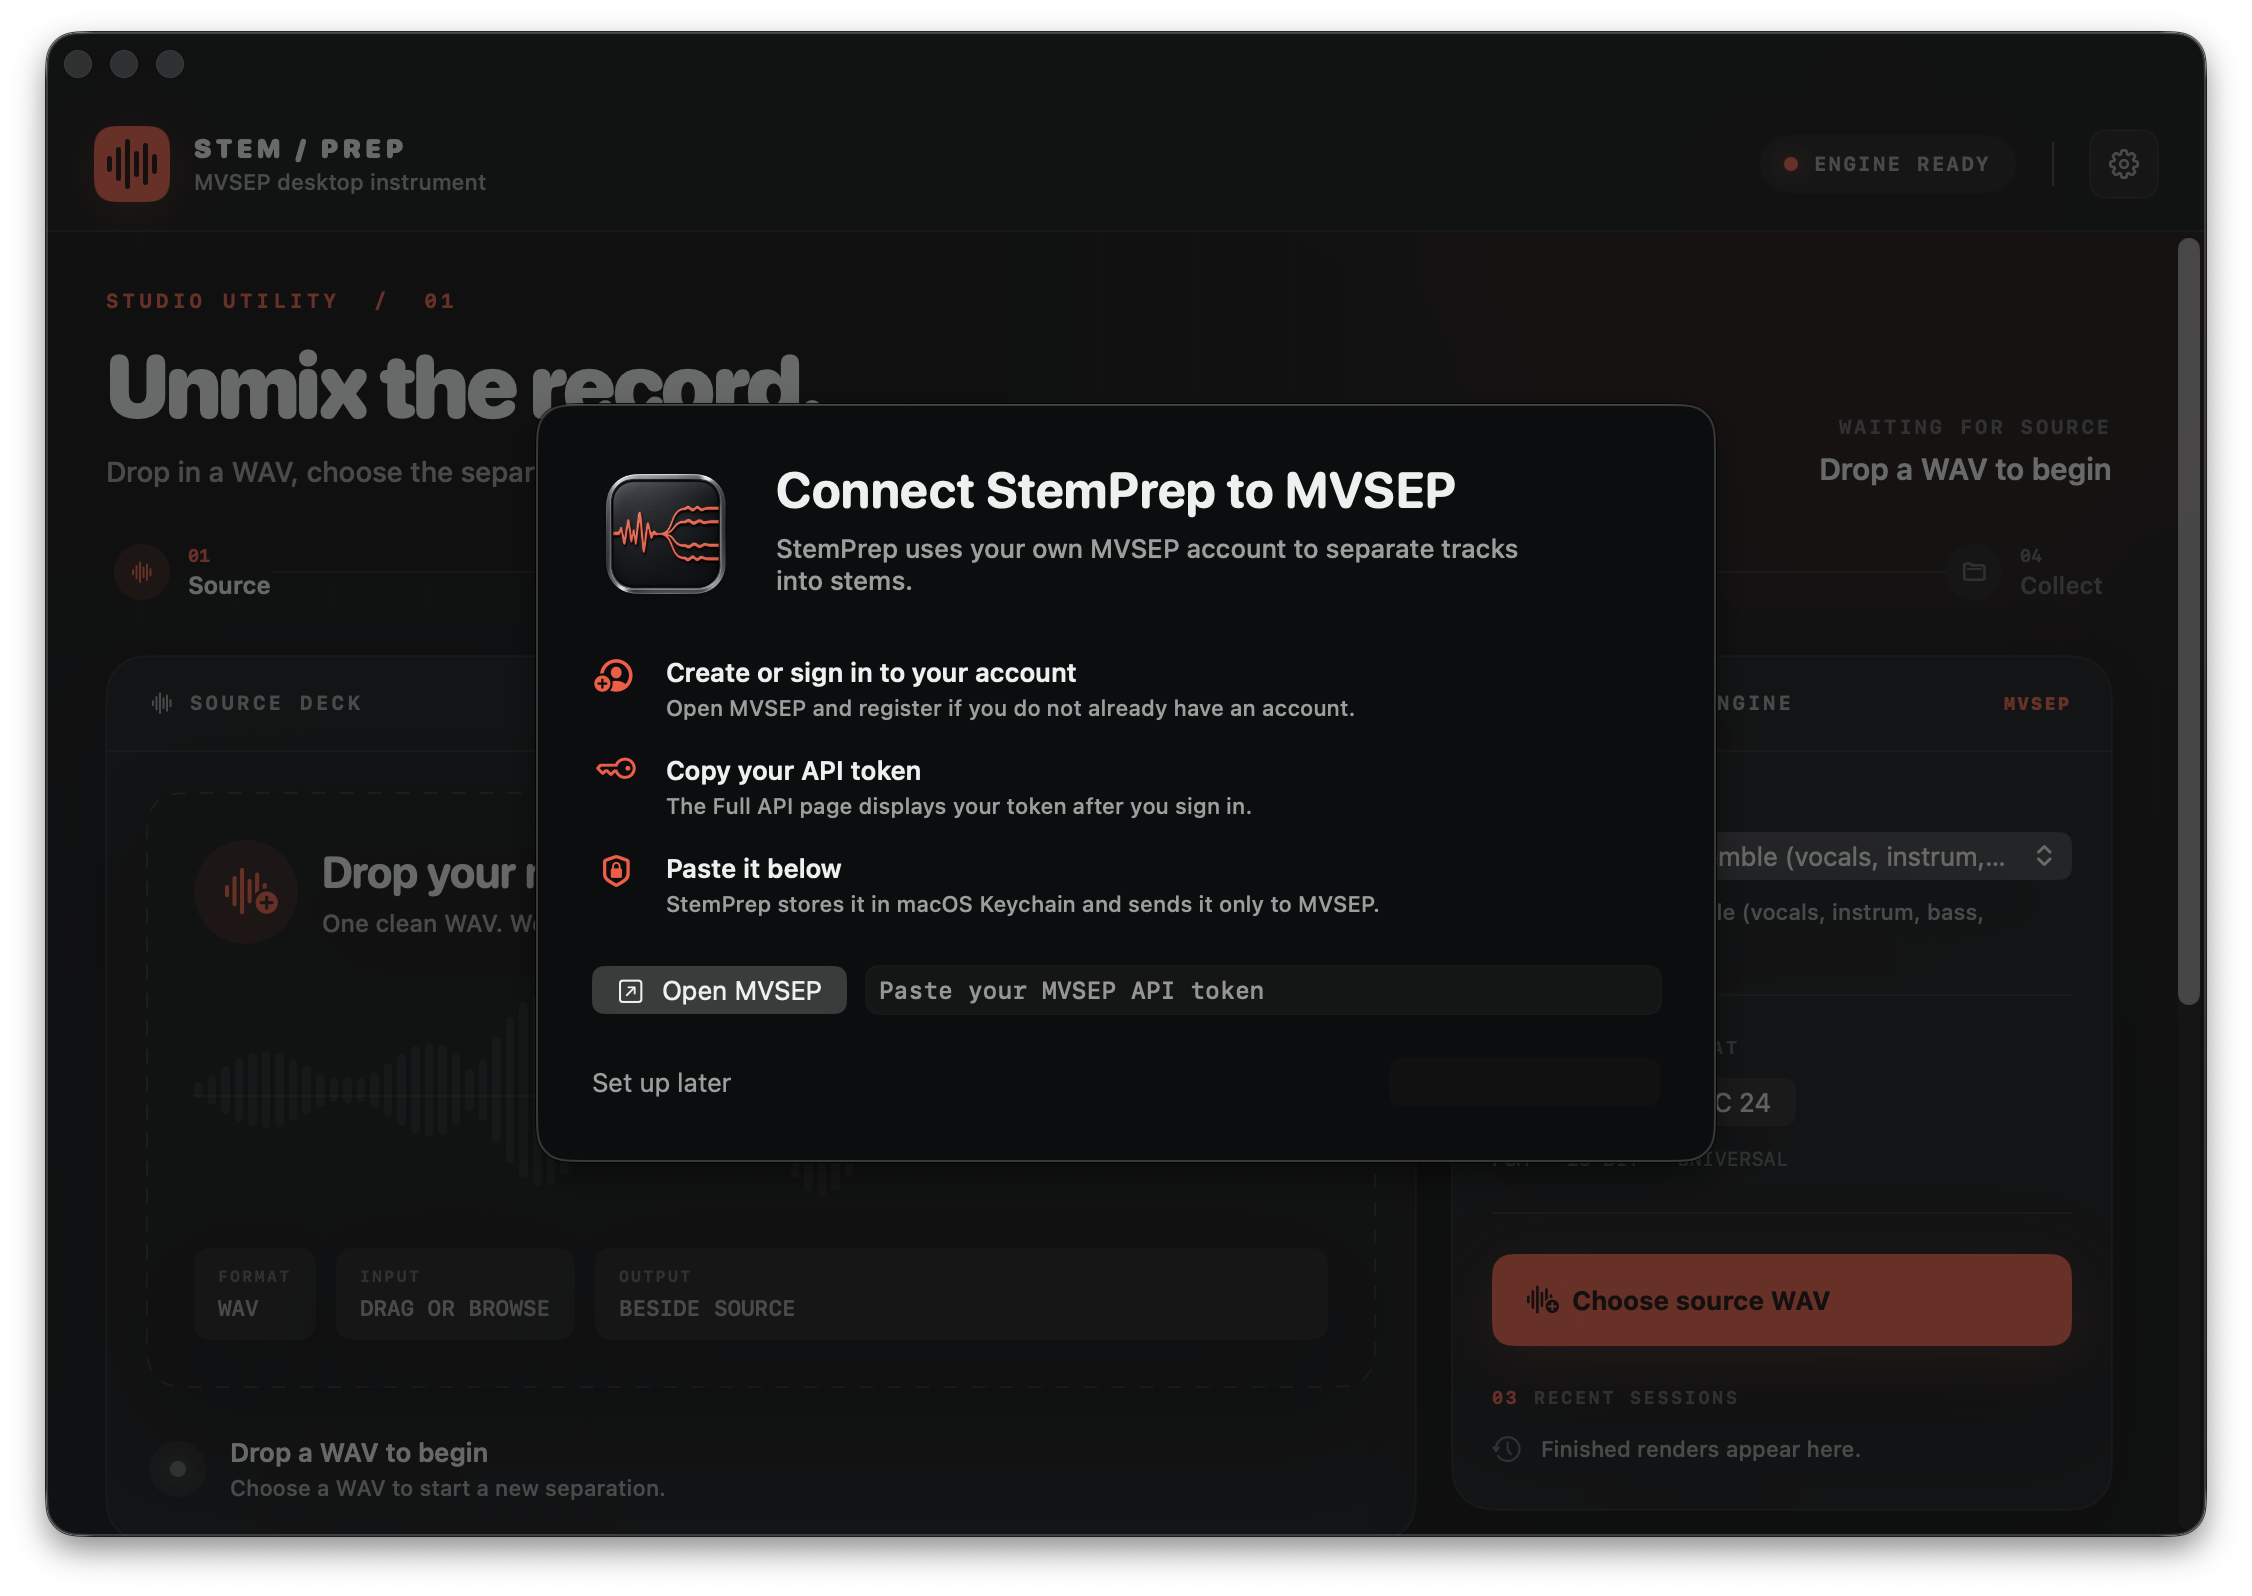
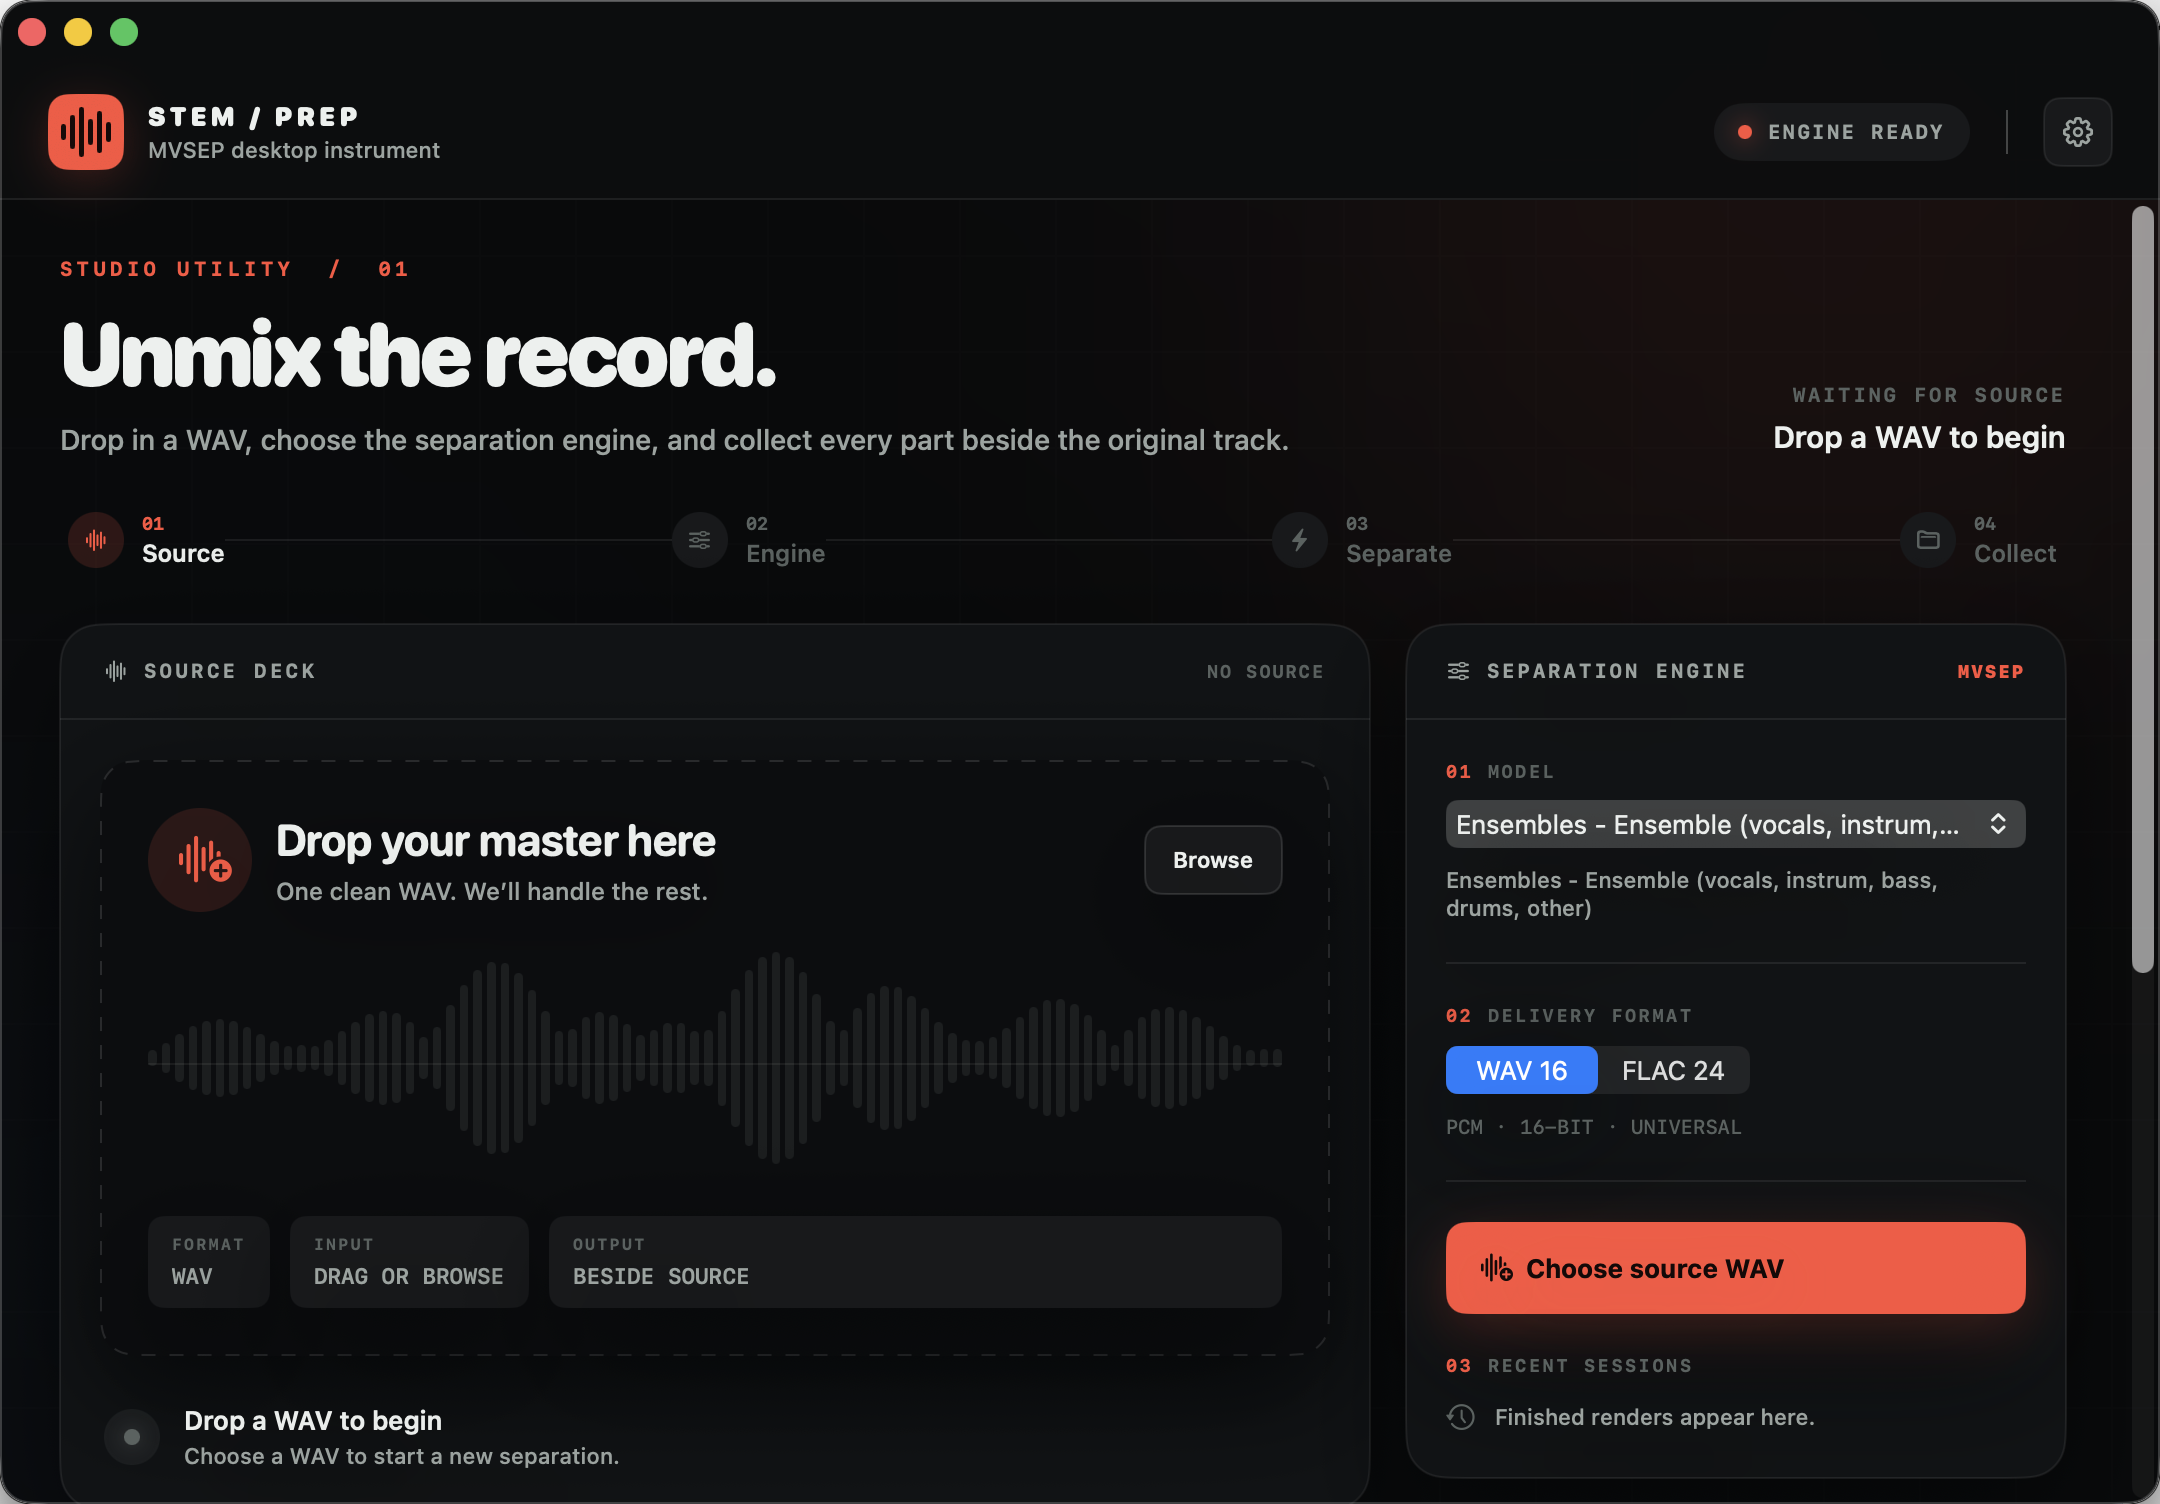
Lock site to dark mode and refresh screenshots

diff --git a/docs/styles.css b/docs/styles.css
@@ -1,43 +1,4 @@
 :root {
-  color-scheme: light;
-  --bg: #eef0f1;
-  --surface: #f8f9f9;
-  --surface-strong: #ffffff;
-  --surface-tint: #e3e5e6;
-  --text: #111315;
-  --muted: #565d61;
-  --line: rgba(17, 19, 21, 0.14);
-  --line-strong: rgba(17, 19, 21, 0.24);
-  --accent: #e23f31;
-  --accent-strong: #c93226;
-  --accent-ink: #fff8f6;
-  --header: rgba(238, 240, 241, 0.86);
-  --shadow: rgba(35, 42, 46, 0.18);
-  --radius: 22px;
-  --button-radius: 14px;
-  --shell: min(1180px, calc(100vw - 48px));
-}
-
-@media (prefers-color-scheme: dark) {
-  :root:not([data-theme="light"]) {
-    color-scheme: dark;
-    --bg: #111315;
-    --surface: #181b1d;
-    --surface-strong: #202427;
-    --surface-tint: #292d30;
-    --text: #f0f1ef;
-    --muted: #9da4a4;
-    --line: rgba(240, 241, 239, 0.11);
-    --line-strong: rgba(240, 241, 239, 0.22);
-    --accent: #ff5140;
-    --accent-strong: #ff6959;
-    --accent-ink: #160807;
-    --header: rgba(17, 19, 21, 0.84);
-    --shadow: rgba(0, 0, 0, 0.42);
-  }
-}
-
-:root[data-theme="dark"] {
   color-scheme: dark;
   --bg: #111315;
   --surface: #181b1d;
@@ -52,6 +13,9 @@
   --accent-ink: #160807;
   --header: rgba(17, 19, 21, 0.84);
   --shadow: rgba(0, 0, 0, 0.42);
+  --radius: 22px;
+  --button-radius: 14px;
+  --shell: min(1180px, calc(100vw - 48px));
 }
 
 * {
@@ -161,19 +125,16 @@ a {
   white-space: nowrap;
 }
 
-.nav-links > a:not(.button),
-.theme-toggle {
+.nav-links > a:not(.button) {
   color: var(--muted);
   font-size: 13px;
   font-weight: 640;
 }
 
-.nav-links > a:not(.button):hover,
-.theme-toggle:hover {
+.nav-links > a:not(.button):hover {
   color: var(--text);
 }
 
-.theme-toggle,
 .menu-toggle {
   border: 0;
   padding: 0;
@@ -260,18 +221,6 @@ a {
   object-fit: cover;
   object-position: center;
   opacity: 0.78;
-}
-
-:root:not([data-theme="dark"]) .hero-art {
-  opacity: 0.34;
-  filter: grayscale(0.2) contrast(0.82) brightness(1.2);
-}
-
-@media (prefers-color-scheme: dark) {
-  :root:not([data-theme="light"]) .hero-art {
-    opacity: 0.78;
-    filter: none;
-  }
 }
 
 .hero-grid {
@@ -726,8 +675,7 @@ h1 {
     display: flex;
   }
 
-  .nav-links > a:not(.button),
-  .theme-toggle {
+  .nav-links > a:not(.button) {
     padding: 13px 2px;
     text-align: left;
   }

diff --git a/docs/app.js b/docs/app.js
@@ -1,27 +1,5 @@
-const root = document.documentElement;
-const themeButton = document.querySelector('.theme-toggle');
 const menuButton = document.querySelector('.menu-toggle');
 const navLinks = document.querySelector('#nav-links');
-
-const preferredTheme = () => {
-  const saved = localStorage.getItem('stemprep-theme');
-  if (saved === 'light' || saved === 'dark') return saved;
-  return window.matchMedia('(prefers-color-scheme: dark)').matches ? 'dark' : 'light';
-};
-
-const applyTheme = (theme) => {
-  root.dataset.theme = theme;
-  themeButton.textContent = theme === 'dark' ? 'Light mode' : 'Dark mode';
-  themeButton.setAttribute('aria-label', `Switch to ${theme === 'dark' ? 'light' : 'dark'} mode`);
-};
-
-applyTheme(preferredTheme());
-
-themeButton.addEventListener('click', () => {
-  const next = root.dataset.theme === 'dark' ? 'light' : 'dark';
-  localStorage.setItem('stemprep-theme', next);
-  applyTheme(next);
-});
 
 menuButton.addEventListener('click', () => {
   const isOpen = navLinks.classList.toggle('is-open');

diff --git a/docs/index.html b/docs/index.html
@@ -3,7 +3,7 @@
 <head>
   <meta charset="utf-8">
   <meta name="viewport" content="width=device-width, initial-scale=1">
-  <meta name="color-scheme" content="dark light">
+  <meta name="color-scheme" content="dark">
   <meta name="theme-color" content="#111315">
   <title>StemPrep - Stem separation for macOS</title>
   <meta name="description" content="A native macOS app that sends a WAV to MVSEP and saves every returned stem beside the source track.">
@@ -35,7 +35,6 @@
         <a href="#workflow">How it works</a>
         <a href="#privacy">Privacy</a>
         <a href="https://github.com/lordydord/StemPrep">View source</a>
-        <button class="theme-toggle" type="button" aria-label="Change color theme">Light mode</button>
         <a class="button button-small" href="https://github.com/lordydord/StemPrep/releases/latest">Download for Mac</a>
       </div>
     </nav>
@@ -72,7 +71,7 @@
         <p>StemPrep keeps the source, model, progress and finished files visible without turning separation into a technical job.</p>
       </div>
       <figure class="app-frame reveal">
-        <img src="assets/app.webp" width="2252" height="1596" alt="StemPrep for macOS showing its first-run MVSEP setup panel" loading="lazy">
+        <img src="assets/app.webp" width="2160" height="1504" alt="StemPrep for macOS ready for a source WAV" loading="lazy">
       </figure>
     </section>
 
@@ -161,7 +160,7 @@
           <a class="text-link" href="https://mvsep.com/en/full_api">Open MVSEP API setup <span aria-hidden="true">↗</span></a>
         </div>
         <div class="setup-window reveal">
-          <img src="assets/app.webp" width="2252" height="1596" alt="StemPrep first-run setup with MVSEP account and API token instructions" loading="lazy">
+          <img src="assets/app.webp" width="2160" height="1504" alt="StemPrep main window in its clean ready state" loading="lazy">
         </div>
       </div>
     </section>